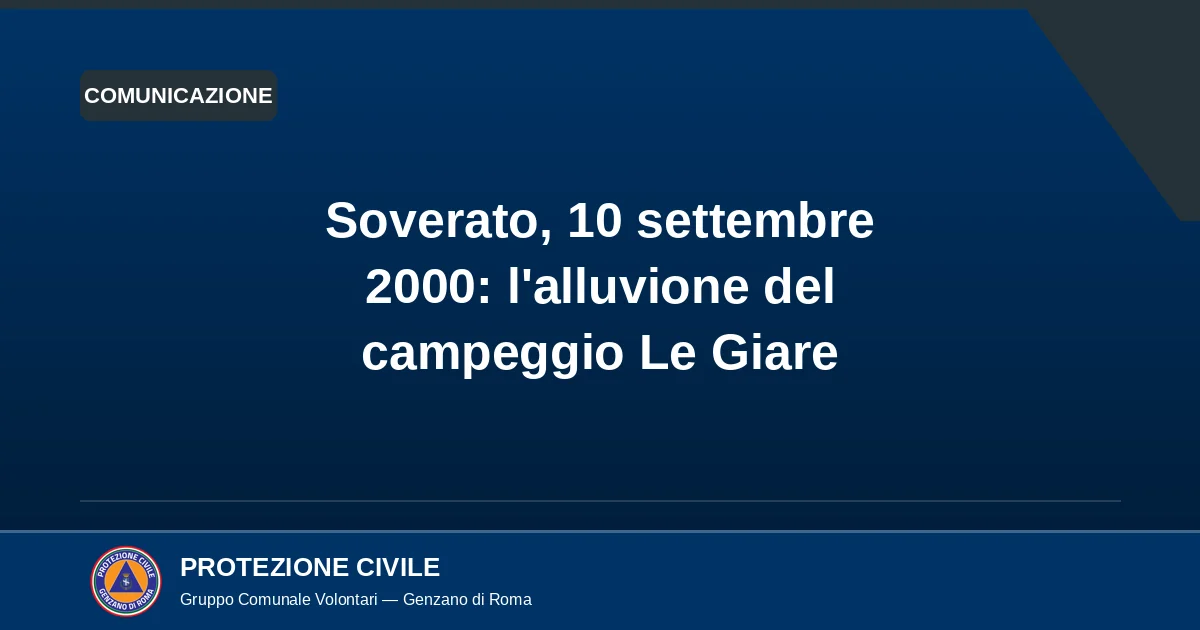
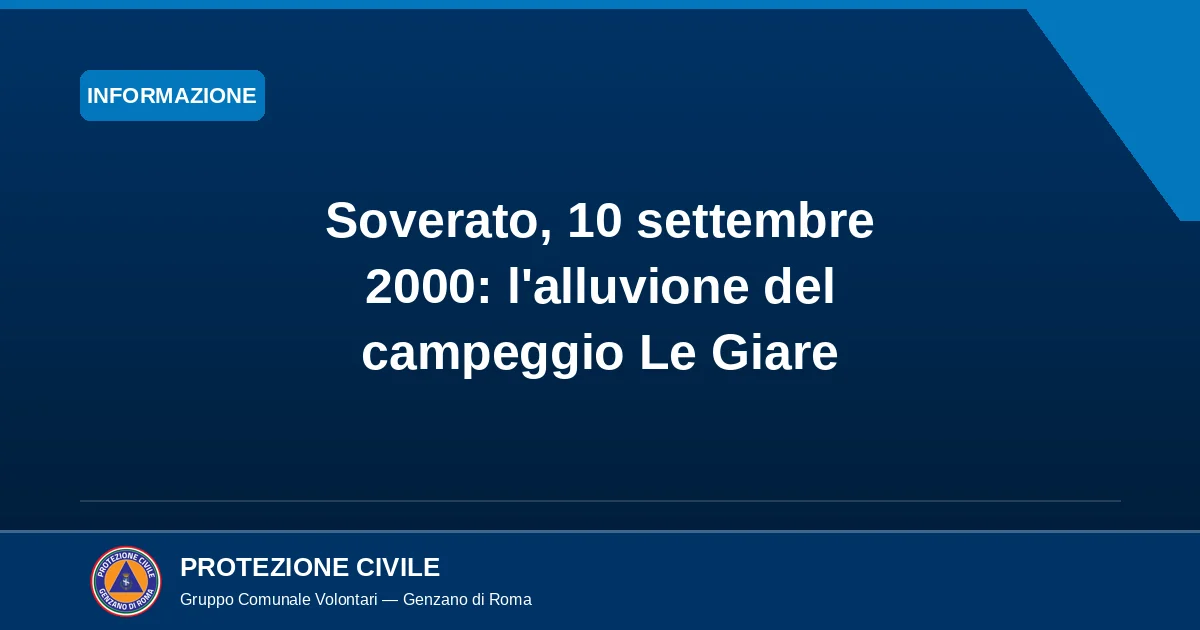
Anniversari con badge Informazione: Soverato 2000, Marche-Umbria 1997, Amatrice 2016
Gli articoli di memoria storica avevano badge Comunicazione e finivano nel canale operativo della home (Il Gruppo e il territorio) invece che tra gli Approfondimenti, come gli altri anniversari del sito. Badge allineato alla convenzione e cover rigenerate.

Changed region(s): [[0.0, 0.0, 1.0, 0.3619], [0.0617, 0.0905, 0.2467, 0.2111]]

diff --git a/content/comunicazioni/2026-09-26-marche-umbria-1997-basilica-assisi.md b/content/comunicazioni/2026-09-26-marche-umbria-1997-basilica-assisi.md
@@ -2,7 +2,7 @@
 title: "Marche-Umbria, 26 settembre 1997: il terremoto che fece crollare la volta della Basilica di Assisi"
 date: 2026-09-26T00:02:00+02:00
 description: "Il terremoto Umbria-Marche del 1997: 11 vittime, fra cui 4 persone schiacciate dal crollo della volta della Basilica Superiore di San Francesco."
-badge: "Comunicazione"
+badge: "Informazione"
 priorita: "normale"
 autore: "Gruppo Comunale Volontari PC Genzano"
 image: "/images/2026-09-26-marche-umbria-1997-basilica-assisi.webp"

diff --git a/content/comunicazioni/2026-09-10-soverato-2000-alluvione-campeggio-le-giare.md b/content/comunicazioni/2026-09-10-soverato-2000-alluvione-campeggio-le-giare.md
@@ -2,7 +2,7 @@
 title: "Soverato, 10 settembre 2000: l'alluvione del campeggio Le Giare"
 date: 2026-09-10T00:02:00+02:00
 description: "Nella notte tra il 9 e il 10 settembre 2000 una piena improvvisa del torrente Beltrame travolse il campeggio Le Giare a Soverato: 13 morti."
-badge: "Comunicazione"
+badge: "Informazione"
 priorita: "normale"
 autore: "Gruppo Comunale Volontari PC Genzano"
 image: "/images/2026-09-10-soverato-2000-alluvione-campeggio-le-giare.webp"

diff --git a/content/comunicazioni/2026-08-24-amatrice-2016-centro-italia-decimo-anniversario.md b/content/comunicazioni/2026-08-24-amatrice-2016-centro-italia-decimo-anniversario.md
@@ -2,7 +2,7 @@
 title: "Amatrice, 24 agosto 2016: dieci anni dalla notte del Centro Italia"
 date: 2026-08-24T00:02:00+02:00
 description: "Alle 3:36 del 24 agosto 2016 una scossa di magnitudo 6.0 distrusse Amatrice, Accumoli e Arquata del Tronto."
-badge: "Comunicazione"
+badge: "Informazione"
 priorita: "normale"
 autore: "Gruppo Comunale Volontari PC Genzano"
 image: "/images/2026-08-24-amatrice-2016-centro-italia-decimo-anniversario.webp"
